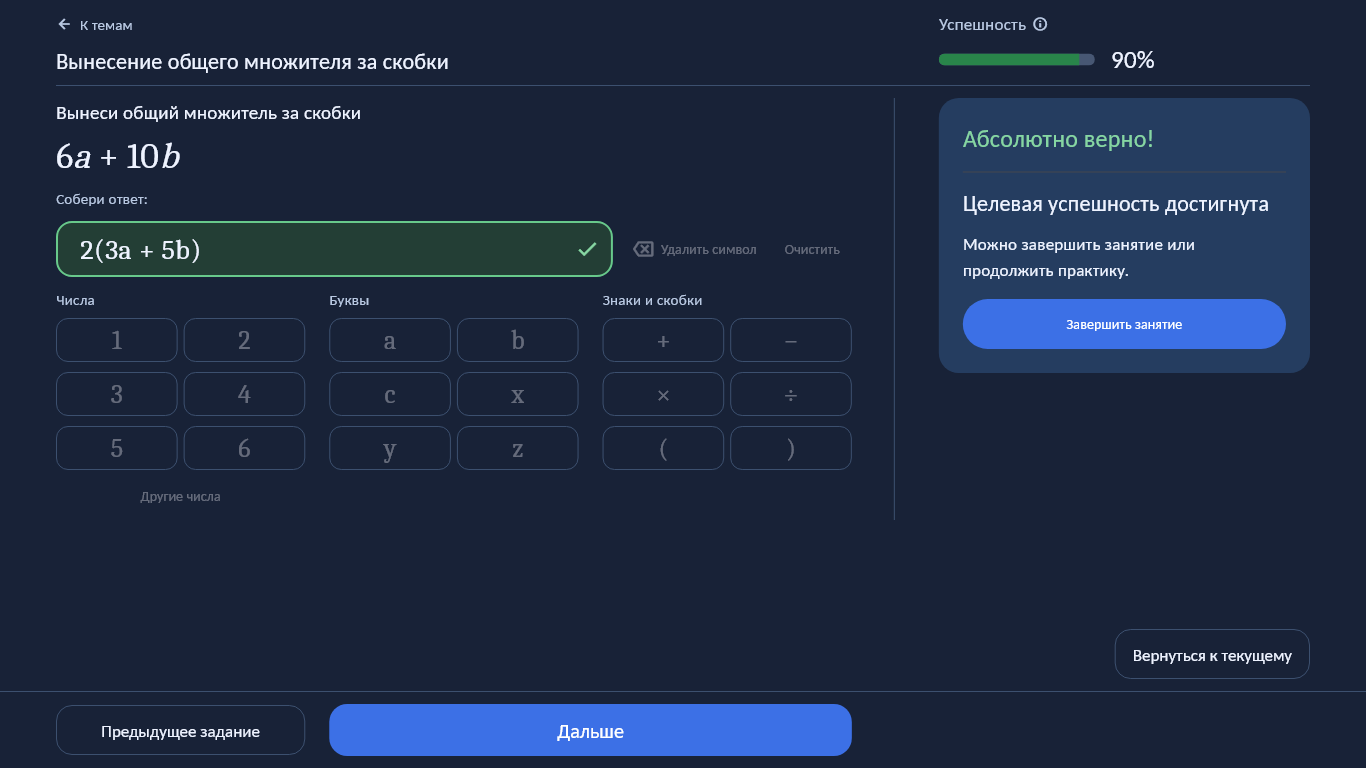
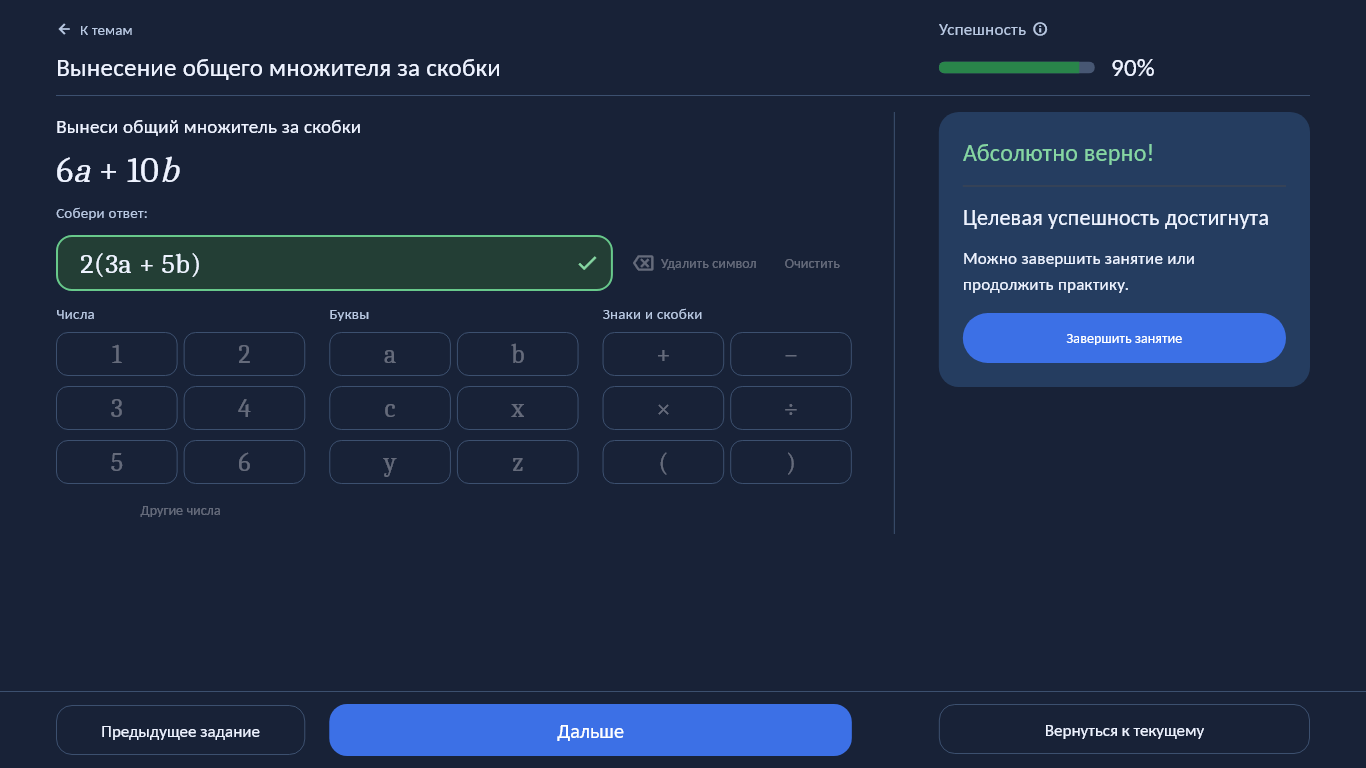
Align history actions in one row beneath the feedback card

diff --git a/lib/bank_trainer.dart b/lib/bank_trainer.dart
@@ -88,28 +88,35 @@ class _BankTrainerState extends State<BankTrainer> {
     setState(() => page = 'results');
   }
 
-  Widget _historyAction(BuildContext context, bool wide, bool compact) {
-    final action = Align(
-      alignment: Alignment.centerRight,
-      child: SecondaryAction(
-        key: const ValueKey('bank-return-current'),
-        label: session!.isFinished
-            ? 'Продолжить решение'
-            : 'Вернуться к текущему',
-        compact: compact,
-        onPressed: _returnToPractice,
-      ),
-    );
-    return LayoutBuilder(
-      builder: (context, bounds) => bounds.maxWidth < 720
-          ? action
-          : DemoColumns(
-              wide: wide,
-              left: const SizedBox.shrink(),
-              right: action,
+  Widget _historyActions(bool compact) => IntrinsicHeight(
+    child: Row(
+      crossAxisAlignment: CrossAxisAlignment.stretch,
+      children: [
+        if (session!.isFinished) ...[
+          Expanded(
+            child: SecondaryAction(
+              key: const ValueKey('bank-history-results'),
+              label: 'К итогам',
+              compact: compact,
+              onPressed: _returnToResults,
             ),
-    );
-  }
+          ),
+          const SizedBox(width: 12),
+        ],
+        Expanded(
+          flex: 2,
+          child: SecondaryAction(
+            key: const ValueKey('bank-return-current'),
+            label: session!.isFinished
+                ? 'Продолжить решение'
+                : 'Вернуться к текущему',
+            compact: compact,
+            onPressed: _returnToPractice,
+          ),
+        ),
+      ],
+    ),
+  );
 
   bool get _complete => isCompleteAnswer(entry.text.replaceAll('·', '×'));
   bool get _unsupportedSymbol =>
@@ -165,16 +172,8 @@ class _BankTrainerState extends State<BankTrainer> {
           ),
         ),
       );
-      final results = _history && session!.isFinished
-          ? Align(
-              alignment: Alignment.centerRight,
-              child: SecondaryAction(
-                key: const ValueKey('bank-history-results'),
-                label: 'К итогам',
-                compact: compact,
-                onPressed: _returnToResults,
-              ),
-            )
+      final historyActions = _history
+          ? _historyActions(compact)
           : const SizedBox.shrink();
       return LayoutBuilder(
         builder: (context, bounds) => bounds.maxWidth < 720
@@ -183,13 +182,10 @@ class _BankTrainerState extends State<BankTrainer> {
                 mainAxisSize: MainAxisSize.min,
                 children: [
                   left,
-                  if (_history && session!.isFinished) ...[
-                    const SizedBox(height: 8),
-                    results,
-                  ],
+                  if (_history) ...[const SizedBox(height: 8), historyActions],
                 ],
               )
-            : DemoColumns(wide: wide, left: left, right: results),
+            : DemoColumns(wide: wide, left: left, right: historyActions),
       );
     }
     if (page == 'results') {
@@ -628,6 +624,7 @@ class _BankTrainerState extends State<BankTrainer> {
       ),
       right: _checked || _offerFinish
           ? Container(
+              key: const ValueKey('bank-feedback-panel'),
               padding: const EdgeInsets.all(24),
               decoration: BoxDecoration(
                 color: c.help,
@@ -805,9 +802,6 @@ class _BankTrainerState extends State<BankTrainer> {
         );
       }
       return DemoPage(
-        aboveFooterBuilder: page == 'practice' && _history
-            ? _historyAction
-            : null,
         showLabel: page != 'practice',
         label: page == 'results'
             ? 'Итоги'

diff --git a/test/voluntary_finish_test.dart b/test/voluntary_finish_test.dart
@@ -143,13 +143,16 @@ void main() {
           final continueBounds = tester.getRect(
             find.byKey(const ValueKey('bank-return-current')),
           );
-          expect(resultBounds.right, closeTo(size.width - 56, .01));
+          expect(continueBounds.right, closeTo(size.width - 56, .01));
           expect(resultBounds.bottom, lessThanOrEqualTo(size.height));
-          expect(
-            continueBounds.bottom,
-            lessThanOrEqualTo(tester.getRect(footer).top),
+          final panel = tester.getRect(
+            find.byKey(const ValueKey('bank-feedback-panel')),
           );
-          expect(continueBounds.right, closeTo(resultBounds.right, .01));
+          expect(continueBounds.top, closeTo(resultBounds.top, .01));
+          expect(continueBounds.bottom, closeTo(resultBounds.bottom, .01));
+          expect(resultBounds.left, closeTo(panel.left, .01));
+          expect(continueBounds.right, closeTo(panel.right, .01));
+          expect(continueBounds.left - resultBounds.right, closeTo(12, .01));
 
           await tester.tap(find.byKey(const ValueKey('bank-history-results')));
           await tester.pumpAndSettle();

diff --git a/tool/verify_bank_render_test.dart b/tool/verify_bank_render_test.dart
@@ -224,7 +224,15 @@ void main() {
       );
       expect(viewport.contains(resultsAction.topLeft), isTrue);
       expect(viewport.contains(resultsAction.bottomRight), isTrue);
-      expect(continueAction.bottom, lessThanOrEqualTo(historyFooter.top));
+      final panel = tester.getRect(
+        find.byKey(const ValueKey('bank-feedback-panel')),
+      );
+      expect(continueAction.top, closeTo(resultsAction.top, .01));
+      expect(continueAction.bottom, closeTo(resultsAction.bottom, .01));
+      expect(resultsAction.left, closeTo(panel.left, .01));
+      expect(continueAction.right, closeTo(panel.right, .01));
+      expect(continueAction.left - resultsAction.right, closeTo(12, .01));
+      expect(viewport.contains(continueAction.bottomRight), isTrue);
       expect(resultsAction.top, greaterThanOrEqualTo(historyFooter.top));
       expect(find.textContaining('Твой ответ:'), findsNothing);
       await save('history-input');

diff --git a/docs/development_status.md b/docs/development_status.md
@@ -516,3 +516,13 @@
 * Существующий интеграционный сценарий расширен: доступность при листании всей истории в обе стороны, завершение из первого задания, неизменность результатов и восстановление черновика при продолжении. Проверки запускаются. Коммит и публикация этого нового изменения пока не выполняются.
 
 * Анализ без замечаний, полный набор 137 тестов, Web-сборка и 6 проверок рендера прошли. Во всех размерах 1366×768, 1920×1080 и 390×844 в двух темах кнопка завершения на предыдущем задании находится в видимой области. Получены снимки bank-history-finish-available-*-widget.png, просмотрен светлый снимок 390×844. Это рендер виджетов; браузерная проверка не выполнялась. Изменение готово локально, без коммита и публикации.
+
+
+## Одна основная ветка и общая строка действий истории — 16 октября 2026 года
+
+* По прямому указанию владельца main локально и на GitHub возвращена к опубликованному 60a8f27. Остальные локальные и удалённые ветки удалены. Перед удалением создана и проверена резервная копия .dart_tool/branches-before-main-60a8f27.bundle; она не включена в репозиторий.
+* После утверждения компоновки действия истории объединены в одну строку нижней панели под правой карточкой. «К итогам» и «Продолжить решение» занимают её ширину вместе с промежутком; в активной истории «Вернуться к текущему» занимает всю ширину. Логика практики, черновики и блокировка проверенных ответов не менялись. Проверки выполняются; новые изменения интерфейса пока не закоммичены и не опубликованы.
+
+* flutter analyze --no-pub без замечаний. После обновления устаревшей проверки правой границы кнопки все 137 тестов прошли. Все 6 проверок рендера прошли при 1920×1080, 1366×768 и 390×844 в обеих темах: кнопки стоят на одной высоте, их внешние границы совпадают с карточкой, промежуток равен 12px. Просмотрены светлый снимок 1366×768 и тёмный 390×844. Web-сборка успешна. Это проверка виджетов; визуальная проверка реального браузера не выполнялась. Новые изменения интерфейса не закоммичены и не опубликованы.
+
+* Получена прямая команда владельца сделать коммит и опубликовать эту компоновку. Проверенные изменения подготовлены к отправке в main; результат автоматической публикации проверяется отдельно после отправки.

diff --git a/docs/design_spec.md b/docs/design_spec.md
@@ -193,3 +193,8 @@ CSS light-dark задаёт светлую и тёмную версии. HTML в
 ## Разделение действий истории и итогов — 16 октября 2026 года
 
 В просмотре завершённой практики «К итогам» закреплена справа в нижней панели рядом с навигацией по заданиям. «Продолжить решение» расположена справа над этой панелью, в отдельной нижней строке правой области. На узком экране возврат к итогам занимает нижнюю строку панели с выравниванием вправо; действия остаются доступны при прокрутке. Верхняя строка действий и дублирование «Твой ответ» удалены из истории. Для этого DemoPage поддерживает необязательную строку действий над нижней панелью; остальные экраны без неё сохраняют компоновку.
+
+
+## Действия истории одной строкой — 16 октября 2026 года
+
+Позднее уточнение владельца заменяет прежнее разделение действий по высоте: «К итогам» и «Продолжить решение» расположены рядом в закреплённой нижней панели, под правой карточкой. Их общая ширина с промежутком 12px равна ширине карточки; ширины кнопок распределены 1:2, высоты одинаковые. В активной истории одиночная «Вернуться к текущему» занимает ту же область целиком. На узком экране эта строка находится под навигацией и также совпадает по ширине с карточкой. Отдельная строка над панелью в реальной практике больше не используется.

diff --git a/docs/product_requirements.md b/docs/product_requirements.md
@@ -318,3 +318,8 @@ UX §§28–29, 34–35 описывает ожидаемое поведение
 ## Завершение из любого задания истории — 16 октября 2026 года
 
 По поручению владельца при текущей успешности от 85% и незавершённой сессии «Завершить занятие» доступна как на текущем задании, так и на любом просматриваемом предыдущем. Условие определяется текущей успешностью сессии, а не результатом открытого старого ответа. Просмотр не создаёт попыток. Завершение из истории открывает те же итоги, не оценивает черновик текущего задания и сохраняет его для явного продолжения. После завершения вместо повторного завершения доступны ранее согласованные действия «К итогам» и «Продолжить решение».
+
+
+## Уточнение расположения действий истории — 16 октября 2026 года
+
+По утверждению владельца «К итогам» и «Продолжить решение» объединены в одну строку по ширине правой карточки, включая промежуток. До завершения на этом месте находится «Вернуться к текущему». Это заменяет прежнее размещение продолжения над нижней панелью; действия и сохранение ответов остаются прежними.
